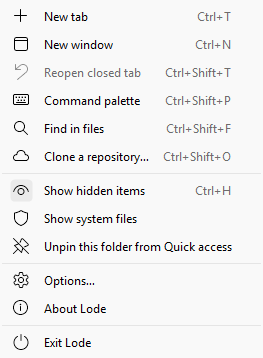
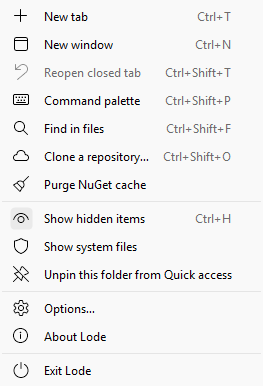
Purge NuGet cache, in the window's menu and the command palette, clears NuGet's caches on this machine as dotnet nuget locals all --clear does: the packages restore has fetched, the HTTP cache, and the temp and plugins caches. It runs in the Actions panel, as Update NuGets does, named for the folder

diff --git a/src/Lode/Code/NuGetCache.cs b/src/Lode/Code/NuGetCache.cs
@@ -1,0 +1,105 @@
+/// <summary>
+/// Purge NuGet cache: clears NuGet's caches on this machine, as
+/// <c>dotnet nuget locals all --clear</c> does. That is the packages restore has fetched, the
+/// HTTP cache, and the temp and plugins caches. The next restore fetches what it needs again.
+/// </summary>
+static class NuGetCache
+{
+    /// <summary>
+    /// Where restore puts the packages it fetches, as NuGet's settings have it, for the Actions
+    /// panel to name: the biggest of the caches, and the one people know.
+    /// </summary>
+    public static string PackagesFolder()
+    {
+        try
+        {
+            return NuGet.Configuration.SettingsUtility.GetGlobalPackagesFolder(NuGet.Configuration.Settings.LoadDefaultSettings(Path.GetTempPath()));
+        }
+        catch (Exception)
+        {
+            // NuGet's own default, for a config it can't read, which the purge then fails on.
+            return Path.Combine(Environment.GetFolderPath(Environment.SpecialFolder.UserProfile), ".nuget", "packages");
+        }
+    }
+
+    /// <summary>
+    /// Clears the caches, once no update is running, which would be restoring from them. It can't
+    /// be stopped: stopped part way, a package's folder could be left with some of its files
+    /// gone, which restore would still take as complete.
+    /// </summary>
+    public static async Task<ActionLog.Outcome> Purge(IProgress<string>? progress = null)
+    {
+        var gate = CodeCommands.NugetGate;
+        if (!await gate.WaitAsync(0))
+        {
+            progress?.Report("Waiting for Update NuGets to finish");
+            await gate.WaitAsync();
+        }
+
+        try
+        {
+            var startInfo = StartInfo();
+            var (exitCode, output) = await Task.Run(() => Run(startInfo));
+            return Outcome(exitCode, output);
+        }
+        catch (Exception exception)
+        {
+            return new(false, "Failed", exception.Message);
+        }
+        finally
+        {
+            gate.Release();
+        }
+    }
+
+    /// <summary>
+    /// Runs dotnet, giving the code it exited with and what it wrote. Tests replace it, so they
+    /// leave the machine's caches alone.
+    /// </summary>
+    internal static Func<ProcessStartInfo, (int ExitCode, string Output)> Run = RunProcess;
+
+    static (int ExitCode, string Output) RunProcess(ProcessStartInfo startInfo)
+    {
+        using var process = Process.Start(startInfo)!;
+        var error = process.StandardError.ReadToEndAsync();
+        var output = process.StandardOutput.ReadToEnd();
+        process.WaitForExit();
+        return (process.ExitCode, $"{output}\n{error.Result}".Trim());
+    }
+
+    /// <summary>
+    /// The dotnet running Lode, rather than whichever is first on the PATH, which for a Lode
+    /// started at login, or by Explorer, may have none. Run in the temp folder, as the folder Lode
+    /// was started in could hold a NuGet.config that puts the caches somewhere else.
+    /// </summary>
+    internal static ProcessStartInfo StartInfo() =>
+        new(ToolUpdate.RunningDotnet())
+        {
+            ArgumentList =
+            {
+                "nuget",
+                "locals",
+                "all",
+                "--clear"
+            },
+            WorkingDirectory = Path.GetTempPath(),
+            UseShellExecute = false,
+            CreateNoWindow = true,
+            RedirectStandardOutput = true,
+            RedirectStandardError = true
+        };
+
+    /// <summary>
+    /// What dotnet said, as the Actions panel shows it: each cache it cleared, or what it
+    /// couldn't delete, a package a build or Visual Studio has open say.
+    /// </summary>
+    internal static ActionLog.Outcome Outcome(int exitCode, string output)
+    {
+        if (exitCode == 0)
+        {
+            return new(true, "Cleared", output);
+        }
+
+        return new(false, "Failed", output);
+    }
+}

diff --git a/src/Lode.Tests/Code/NuGetCacheTests.cs b/src/Lode.Tests/Code/NuGetCacheTests.cs
@@ -1,0 +1,98 @@
+/// <summary>
+/// Purge NuGet cache. Dotnet is never run for real here, which would clear this machine's
+/// caches: it is replaced with what it would say. The window tests replace it too, so these
+/// take turns with them.
+/// </summary>
+[NotInParallel("windows")]
+public class NuGetCacheTests
+{
+    // As the script it stands in for: dotnet nuget locals all --clear, the dotnet running Lode,
+    // in the temp folder.
+    [Test]
+    public async Task RunsDotnetNugetLocalsAllClear()
+    {
+        var startInfo = NuGetCache.StartInfo();
+
+        await Assert.That(startInfo.FileName).IsEqualTo(ToolUpdate.RunningDotnet());
+        await Assert.That(Path.GetFileName(startInfo.FileName)).IsEqualTo("dotnet.exe");
+        await Assert.That(startInfo.ArgumentList).IsEquivalentTo(["nuget", "locals", "all", "--clear"], CollectionOrdering.Matching);
+        await Assert.That(startInfo.WorkingDirectory).IsEqualTo(Path.GetTempPath());
+        await Assert.That(startInfo.CreateNoWindow).IsTrue();
+    }
+
+    // What dotnet said is the details: each cache cleared, or what it couldn't delete. A dotnet
+    // that won't start fails too.
+    [Test]
+    public async Task Outcomes()
+    {
+        var run = NuGetCache.Run;
+        try
+        {
+            NuGetCache.Run = _ => (0, "Clearing NuGet global packages folder: C:\\packages\nLocal resources cleared.");
+            var cleared = await NuGetCache.Purge();
+            NuGetCache.Run = _ => (1, "Failed to delete 'C:\\packages\\verify\\lib.dll'.\nClearing local resources failed: Unable to delete one or more files.");
+            var failed = await NuGetCache.Purge();
+            NuGetCache.Run = _ => throw new System.ComponentModel.Win32Exception("The system cannot find the file specified.");
+            var missing = await NuGetCache.Purge();
+
+            await Assert.That(cleared).IsEqualTo(new ActionLog.Outcome(true, "Cleared", "Clearing NuGet global packages folder: C:\\packages\nLocal resources cleared."));
+            await Assert.That(failed).IsEqualTo(new ActionLog.Outcome(false, "Failed", "Failed to delete 'C:\\packages\\verify\\lib.dll'.\nClearing local resources failed: Unable to delete one or more files."));
+            await Assert.That(missing).IsEqualTo(new ActionLog.Outcome(false, "Failed", "The system cannot find the file specified."));
+        }
+        finally
+        {
+            NuGetCache.Run = run;
+        }
+    }
+
+    // An update restores packages from the cache, so the purge waits for it to finish, saying
+    // so, and runs dotnet only then.
+    [Test]
+    public async Task WaitsForAnUpdate()
+    {
+        var run = NuGetCache.Run;
+        var gate = CodeCommands.NugetGate;
+        var ran = false;
+        var reports = new Reports();
+        NuGetCache.Run = _ =>
+        {
+            ran = true;
+            return (0, "Local resources cleared.");
+        };
+        try
+        {
+            Task<ActionLog.Outcome> purging;
+            await gate.WaitAsync();
+            try
+            {
+                purging = NuGetCache.Purge(reports);
+                await Task.Delay(100);
+
+                await Assert.That(ran).IsFalse();
+                await Assert.That(reports.Lines).IsEquivalentTo(["Waiting for Update NuGets to finish"]);
+            }
+            finally
+            {
+                gate.Release();
+            }
+
+            var outcome = await purging;
+
+            await Assert.That(ran).IsTrue();
+            await Assert.That(outcome.Summary).IsEqualTo("Cleared");
+        }
+        finally
+        {
+            NuGetCache.Run = run;
+        }
+    }
+
+    // Kept as they are made, on the thread that made them.
+    sealed class Reports : IProgress<string>
+    {
+        public List<string> Lines { get; } = [];
+
+        public void Report(string value) =>
+            Lines.Add(value);
+    }
+}

diff --git a/src/Lode.Tests/Window/WindowsTests.cs b/src/Lode.Tests/Window/WindowsTests.cs
@@ -1787,6 +1787,7 @@ public class WindowsTests
                   Command palette,
                   Find in files,
                   Clone a repository…,
+                  Purge NuGet cache,
                   ----,
                   Show hidden items,
                   Show system files,
@@ -1798,6 +1799,40 @@ public class WindowsTests
                   Exit Lode
                 ]
                 """);
+    }
+
+    // Purge NuGet cache, from the ⋯ menu, runs in the Actions panel, as Update NuGets does,
+    // naming where restore puts packages. Dotnet is replaced, so this machine's caches are left
+    // alone.
+    [Test]
+    public async Task PurgeNugetCacheFromTheMenu()
+    {
+        using var fixture = Fixture.Create();
+        using var form = await Show(fixture, fixture.Root);
+        var run = NuGetCache.Run;
+        var started = new List<string>();
+        NuGetCache.Run = startInfo =>
+        {
+            started.Add(string.Join(" ", startInfo.ArgumentList));
+            return (0, "Local resources cleared.");
+        };
+        ActionLog.Reset();
+        try
+        {
+            form.Commands.Menu().Single(_ => _?.Text == "Purge NuGet cache")!.Action();
+            await Pump.Until(() => ActionLog.Entries is [{ State: not ActionLog.State.Running }]);
+
+            var entry = ActionLog.Entries.Single();
+            await Assert.That(entry.Title).IsEqualTo("Purge NuGet cache");
+            await Assert.That(entry.Where).IsEqualTo(NuGetCache.PackagesFolder());
+            await Assert.That(entry.Summary).IsEqualTo("Cleared");
+            await Assert.That(started).IsEquivalentTo(["nuget locals all --clear"]);
+        }
+        finally
+        {
+            NuGetCache.Run = run;
+            ActionLog.Reset();
+        }
     }
 
     static string DescribeCommand(QuickMenu.Command? command)
@@ -1907,6 +1942,7 @@ public class WindowsTests
                   New window (Ctrl+N),
                   Find in files (Ctrl+Shift+F),
                   Clone a repository… (Ctrl+Shift+O),
+                  Purge NuGet cache,
                   Duplicate tab,
                   Close tab (Ctrl+W),
                   Close other tabs,

diff --git a/src/Lode/Window/Commands.cs b/src/Lode/Window/Commands.cs
@@ -3,7 +3,7 @@
 /// right of the address bar lists, what the command palette offers and what the keys do, and
 /// those of them only they run: Undo and Redo, going to the next tab or one by its number,
 /// showing hidden items and system files, Terminal, Open in Claude, the coding agents, pinning
-/// the folder open to Quick access, cloning a repository, and About.
+/// the folder open to Quick access, cloning a repository, purging the NuGet cache, and About.
 /// </summary>
 sealed class Commands
 {
@@ -74,6 +74,10 @@ sealed class Commands
             {
                 Glyph = Icons.Clone,
                 Shortcut = "Ctrl+Shift+O"
+            },
+            new("Purge NuGet cache", PurgeNugetCache)
+            {
+                Glyph = Icons.Purge
             },
             null,
             new("Show hidden items", ToggleHidden)
@@ -179,6 +183,7 @@ sealed class Commands
         Add("New window", window.NewWindow, "Ctrl+N");
         Add("Find in files", window.FindHost.Open, "Ctrl+Shift+F");
         Add("Clone a repository…", ShowClone, "Ctrl+Shift+O");
+        Add("Purge NuGet cache", PurgeNugetCache);
         if (panes.Repo != null)
         {
             Add("Changes", () => panes.Toggle(GitPane.Changes), "Ctrl+Shift+G");
@@ -652,6 +657,11 @@ sealed class Commands
             window.AddTab(destination, true);
         }
     }
+
+    // In the Actions panel, as Update NuGets is: deleting every package restored takes a while,
+    // and fails where one is open, in a build or Visual Studio say.
+    static void PurgeNugetCache() =>
+        _ = ActionLog.Run("Purge NuGet cache", [NuGetCache.PackagesFolder()], NuGetCache.Purge);
 
     void ShowAbout()
     {

diff --git a/src/Lode/Code/CodeCommands.cs b/src/Lode/Code/CodeCommands.cs
@@ -1077,7 +1077,8 @@ static class CodeCommands
 
     // Only one update at a time. Two over the same files, as a folder and a repository in it
     // are, would race to write them, and two builds of a solution fight over its obj folder.
-    static SemaphoreSlim nugetGate = new(1, 1);
+    // Purge NuGet cache waits its turn too, as it deletes the packages an update restores.
+    internal static SemaphoreSlim NugetGate = new(1, 1);
 
     /// <summary>
     /// Updates the NuGet packages and dotnet tools of every solution in the folder, with
@@ -1086,7 +1087,7 @@ static class CodeCommands
     /// </summary>
     public static async Task<ActionLog.Outcome> UpdateNugets(string folder, IProgress<string>? progress = null, bool build = false)
     {
-        await nugetGate.WaitAsync();
+        await NugetGate.WaitAsync();
         UpdateResult result;
         try
         {
@@ -1098,7 +1099,7 @@ static class CodeCommands
         }
         finally
         {
-            nugetGate.Release();
+            NugetGate.Release();
         }
 
         return NugetOutcome(folder, result.Changes, result.Problems);
@@ -1119,7 +1120,7 @@ static class CodeCommands
 
         var changes = new List<PackageChange>();
         var problems = new List<UpdateProblem>();
-        await nugetGate.WaitAsync();
+        await NugetGate.WaitAsync();
         try
         {
             for (var index = 0; index < folders.Count; index++)
@@ -1140,7 +1141,7 @@ static class CodeCommands
         }
         finally
         {
-            nugetGate.Release();
+            NugetGate.Release();
         }
 
         return NugetOutcome(CommonFolder(folders), changes, problems);

diff --git a/src/Lode/Updates/ToolUpdate.cs b/src/Lode/Updates/ToolUpdate.cs
@@ -141,7 +141,7 @@ sealed class ToolUpdate(string shim, string outcome)
         return Path.Combine(tools, $"{command}.exe");
     }
 
-    static string RunningDotnet()
+    internal static string RunningDotnet()
     {
         // The runtime is {root}\shared\Microsoft.NETCore.App\{version}\, and the muxer is in {root}.
         var root = Path.GetFullPath(Path.Combine(RuntimeEnvironment.GetRuntimeDirectory(), "..", "..", ".."));
